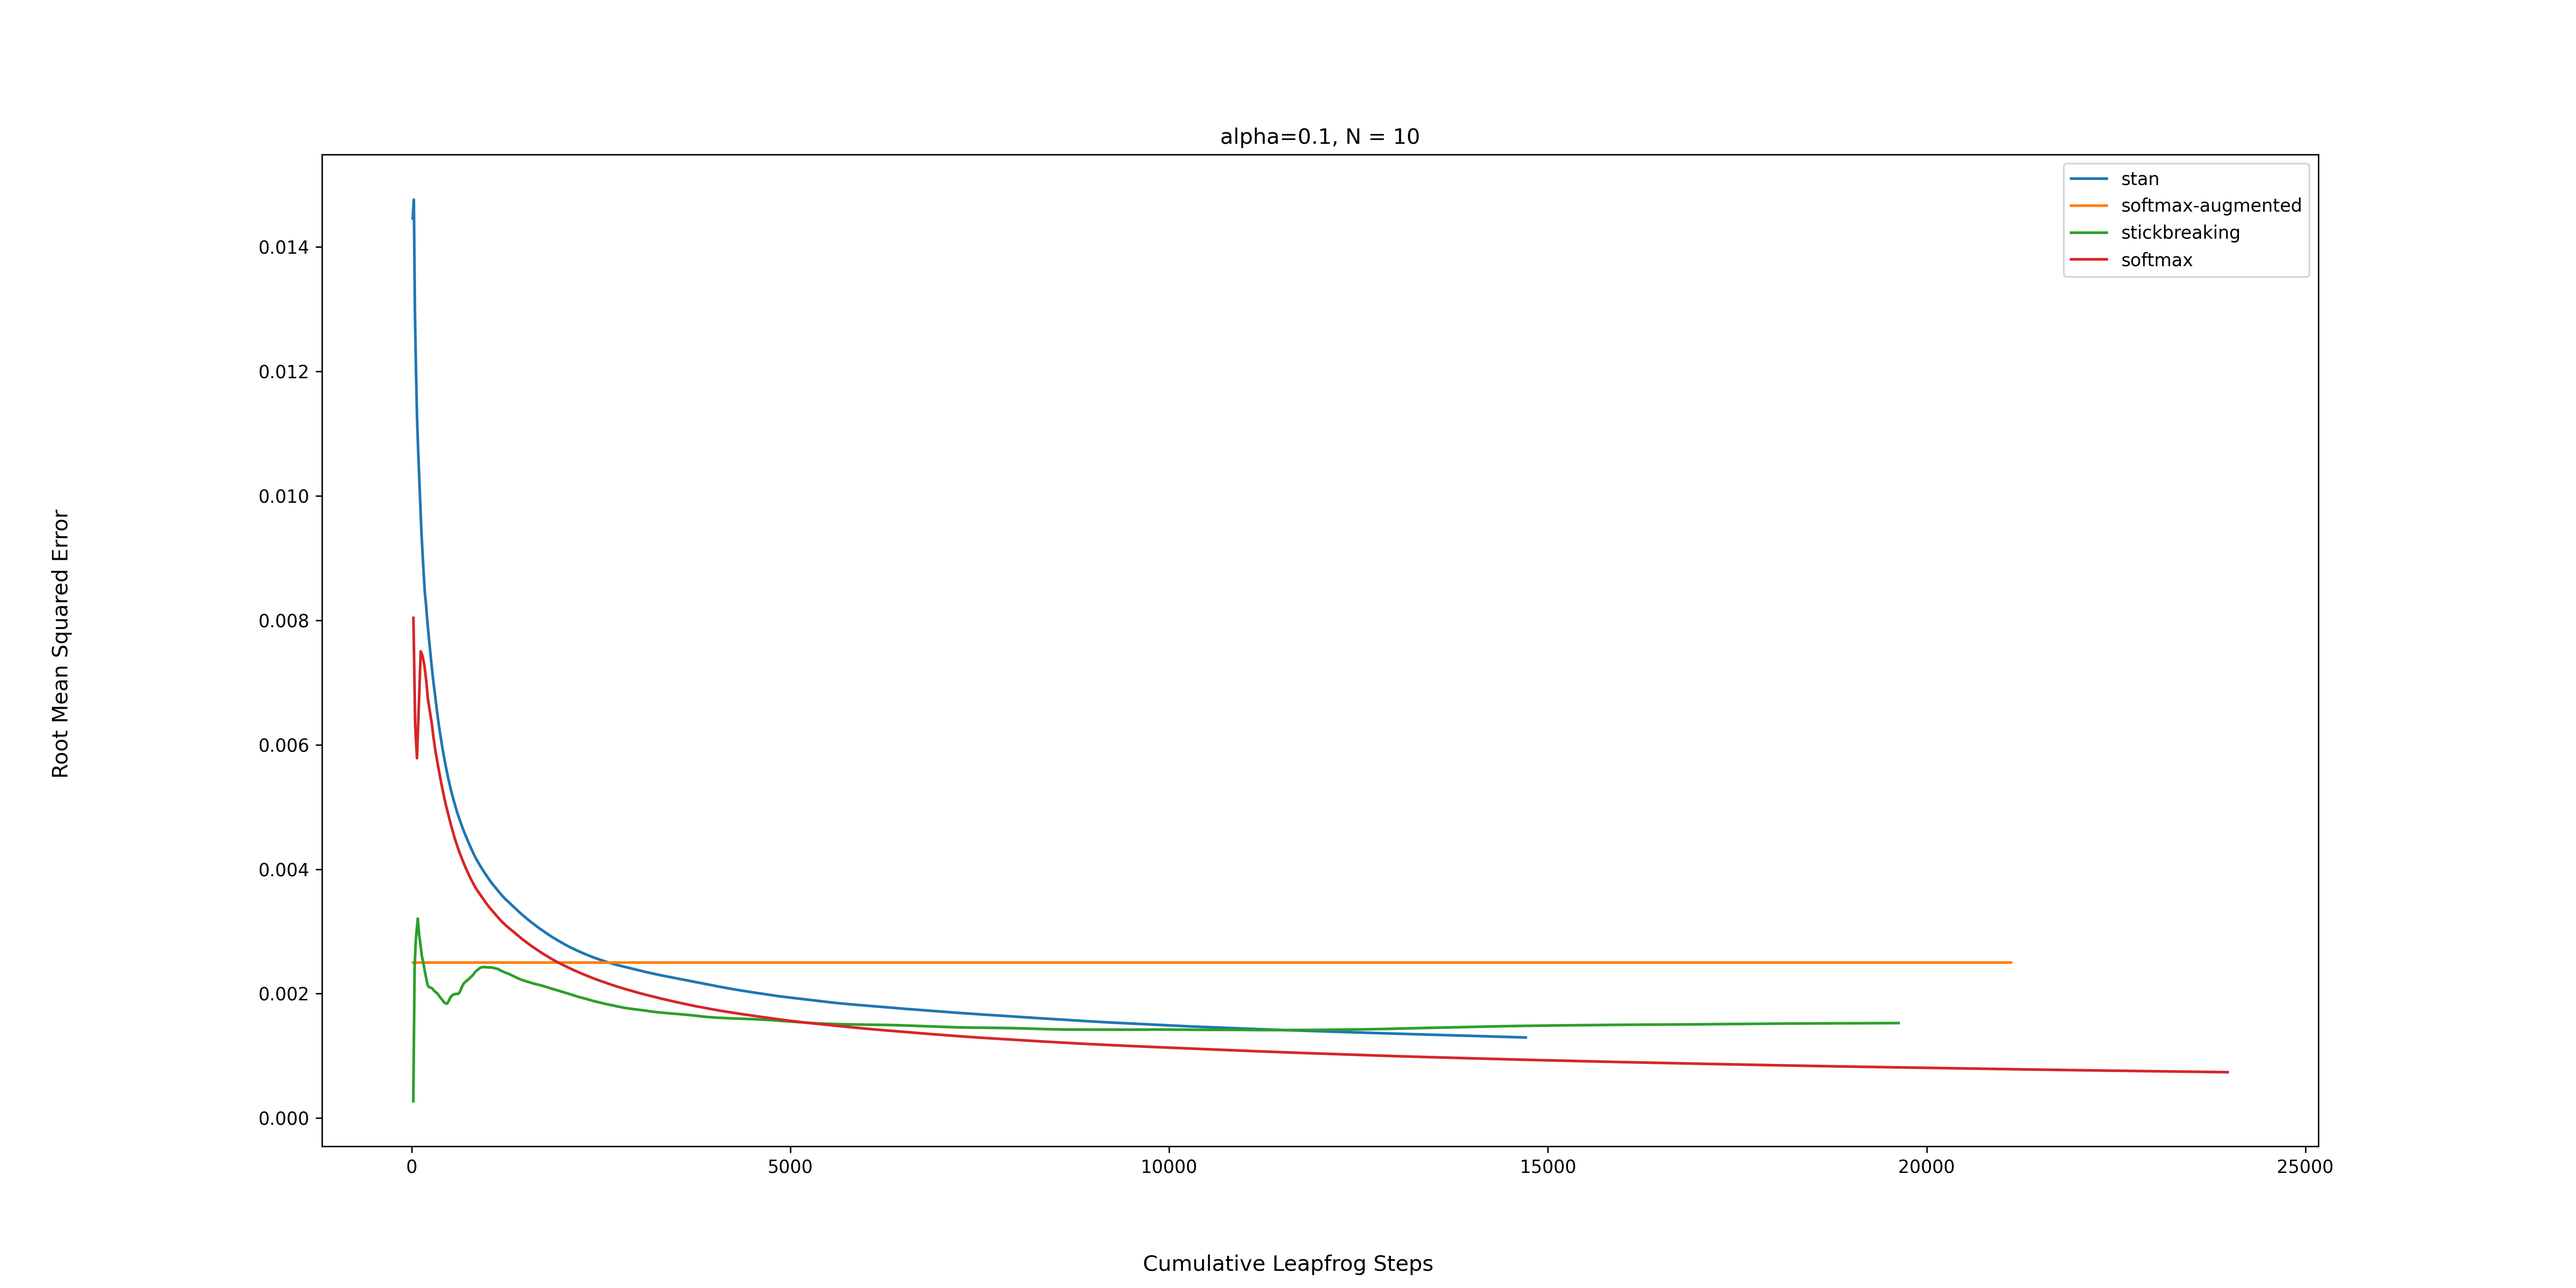
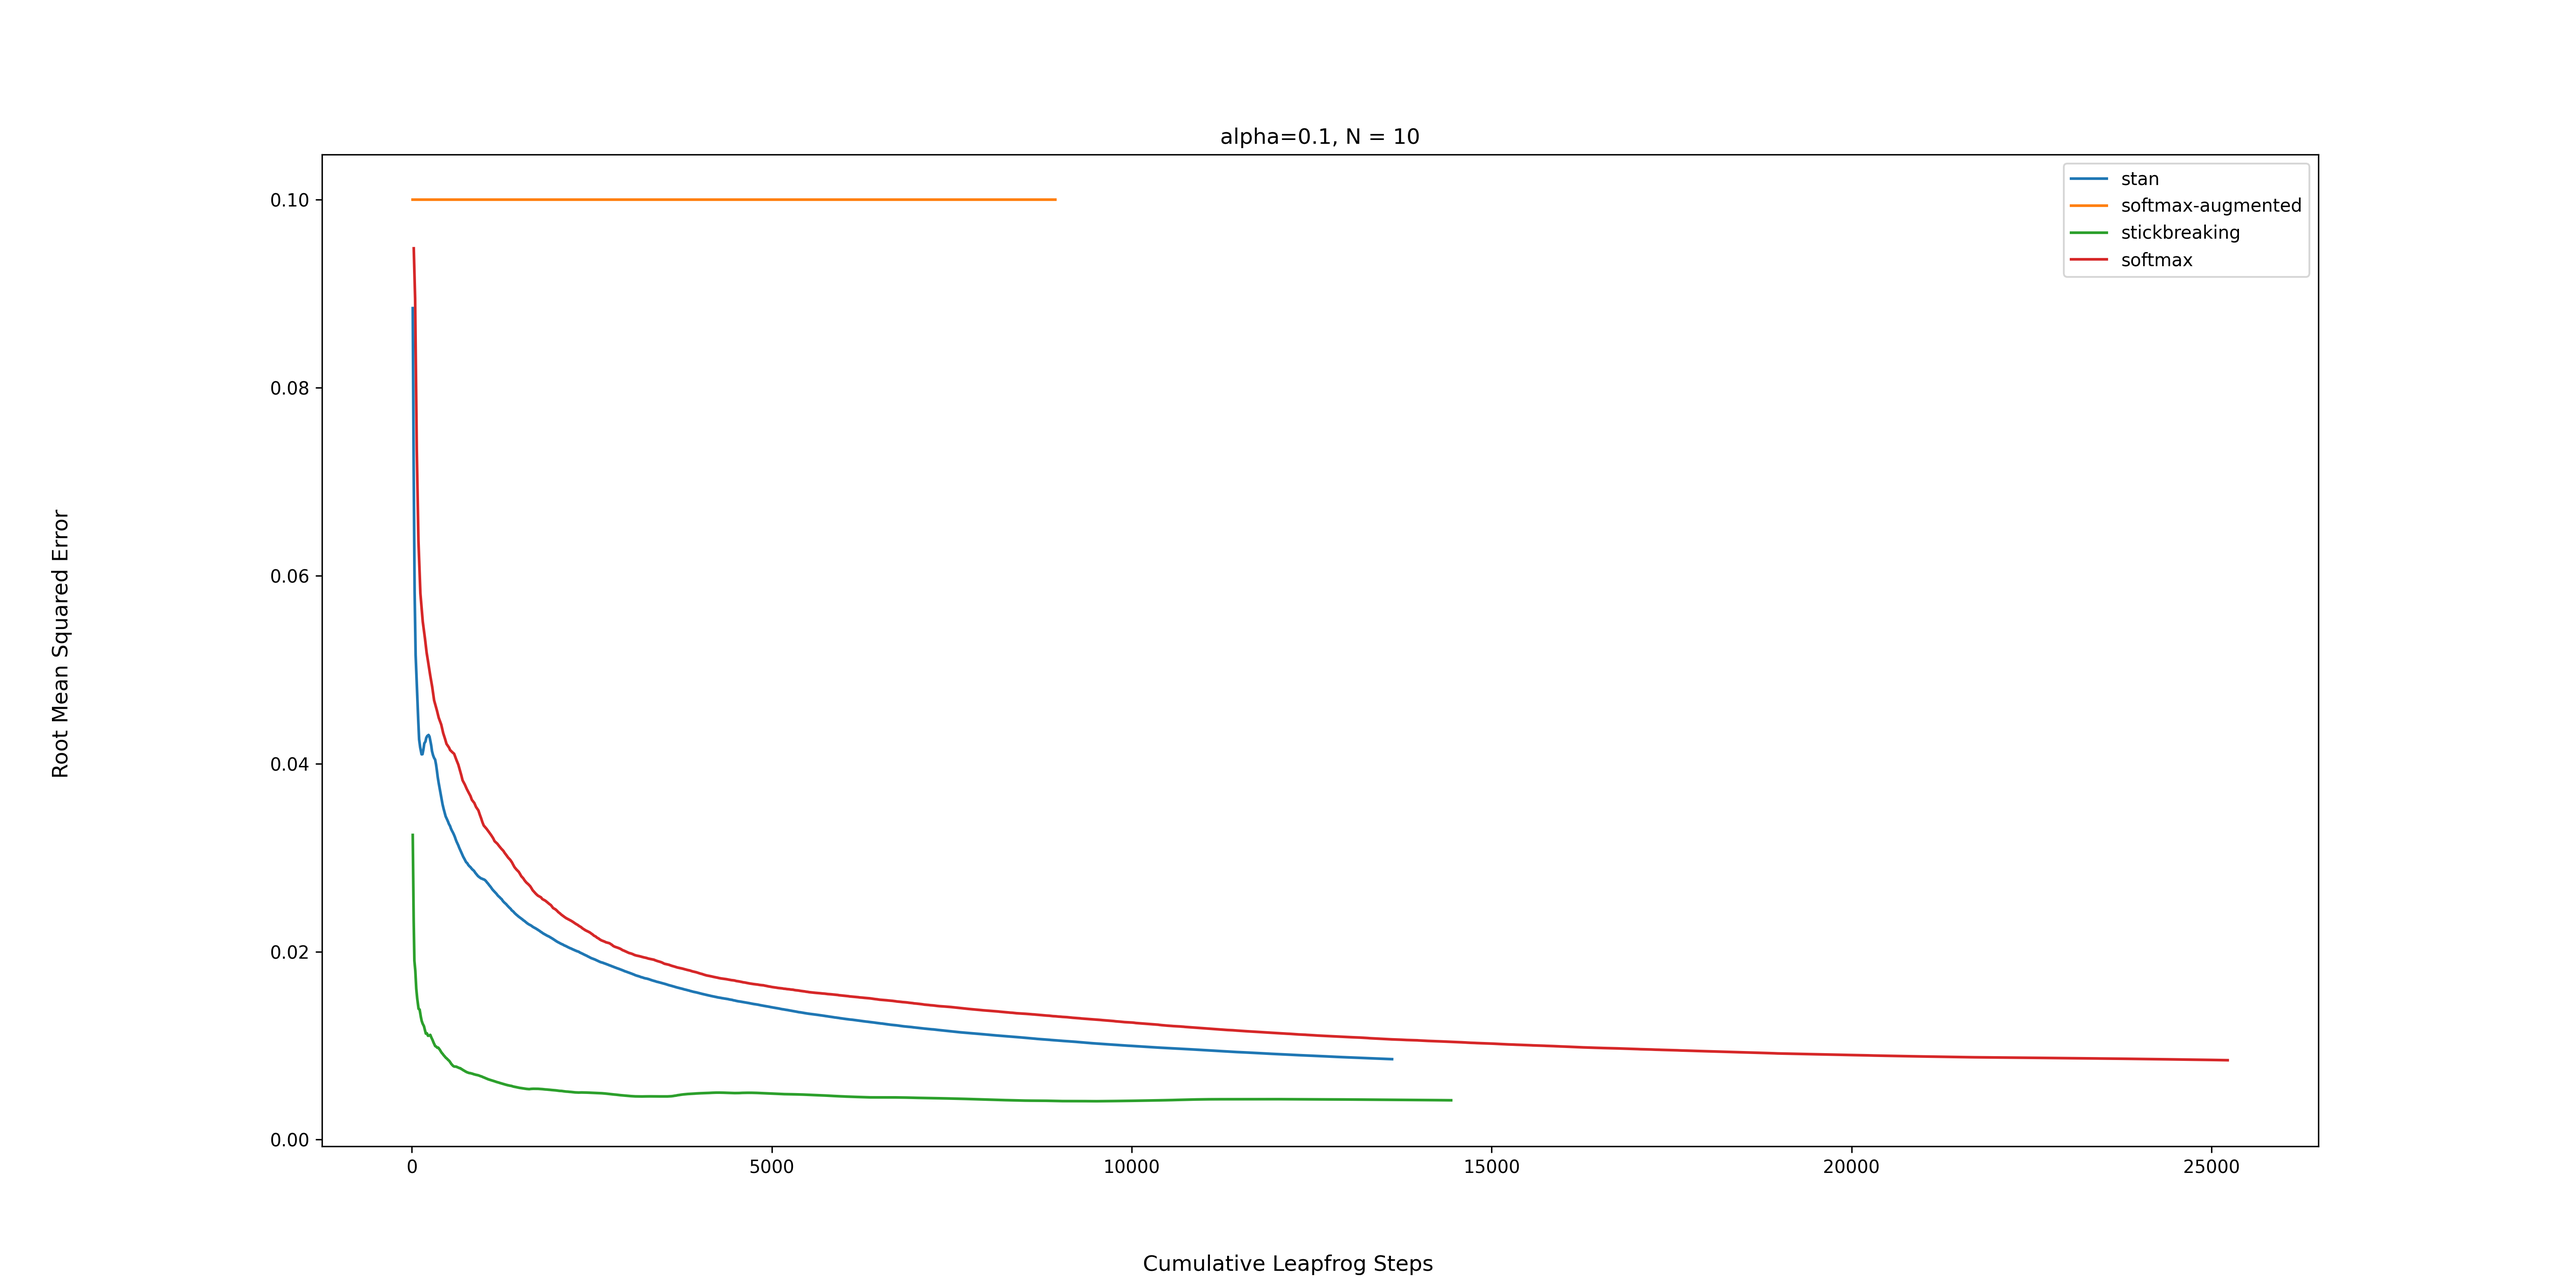
plotmylife

diff --git a/utils/sample.py b/utils/sample.py
@@ -86,7 +86,7 @@ def sample(
 
     if resample == False:
         for params in parameters:
-            filename = f'{output_dir}/sampling_results/{transform_category}/{transform}/{evaluating_model}/{param_map[tuple(list(params.values())[0])]}_{n_repeat}.nc'
+            filename = f'{output_dir}sampling_results/{transform_category}/{transform}/{evaluating_model}/{param_map[tuple(list(params.values())[0])]}_{n_repeat}.nc'
             return az.from_netcdf(filename)
     else:
 

diff --git a/plot.py b/plot.py
@@ -33,5 +33,5 @@ evaluating_model='dirichlet_symmetric'
 transforms = ['stan', 'softmax-augmented','stickbreaking', 'softmax']
 
 get_dirichlet_symmetric_rmse(transforms, transform_category, 
-                             parameters=[{'alpha':alpha, 'N':N}],resample=False, fig_name=f'rmse_{args.parameters}.png', n_repeat=100)
+                             parameters=[{'alpha':alpha, 'N':N}],resample=True, fig_name=f'rmse_{args.parameters}.png', n_repeat=1)
 
